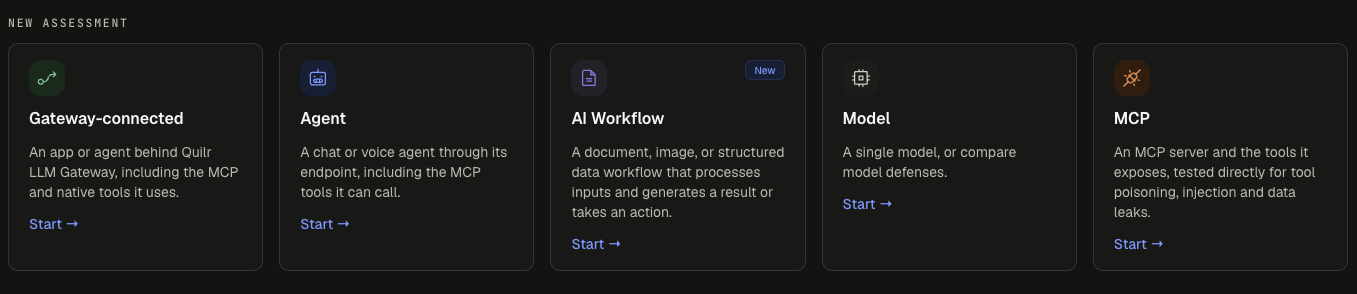
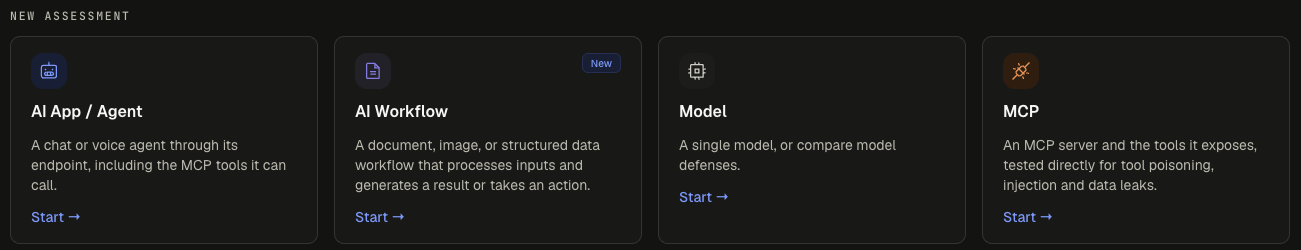
Red Teaming: merge Gateway-connected into AI App / Agent, update mode screenshots

diff --git a/src/data/products.js b/src/data/products.js
@@ -98,15 +98,14 @@ export const products = [
     icon: 'Target',
     sub: 'Attack your own AI before others do',
     tagline:
-      'Test gateway apps, agents, AI workflows and models against real attack techniques, then fix what breaks.',
+      'Test AI apps, agents, AI workflows and models against real attack techniques, then fix what breaks.',
     shot: '/img/products/red-teaming.jpg',
     shotCaption: 'Console › Assessments › Red Teaming',
     primary: {label: 'Get started', to: '/red-teaming/get-started/overview'},
     consolePath: 'Assessments > Red Teaming',
     tasks: [
-      {title: 'Red team a gateway app', desc: 'Test an app or agent already behind the Quilr LLM Gateway', to: '/red-teaming/configure-and-run/gateway-connected'},
       {title: 'Red team an AI workflow', desc: 'Hide attacks in documents, images or data records', to: '/red-teaming/configure-and-run/ai-workflow'},
-      {title: 'Red team an agent', desc: 'Attack any HTTP, WebSocket, or voice agent endpoint', to: '/red-teaming/configure-and-run/agent'},
+      {title: 'Red team an AI app or agent', desc: 'Attack any HTTP, WebSocket, or voice endpoint', to: '/red-teaming/configure-and-run/agent'},
       {title: 'Compare models', desc: 'Run the same attacks on 2 to 8 models', to: '/red-teaming/configure-and-run/model'},
     ],
   },

diff --git a/src/pages/index.js b/src/pages/index.js
@@ -130,7 +130,7 @@ function PlatformMap() {
             <ProductIcon product={red} size={18} />
             <span>{red.name}</span>
           </div>
-          <p>Attacks your gateway apps, agents, models and MCP servers on demand or on a schedule, and turns what it finds into detections.</p>
+          <p>Attacks your AI apps, agents, AI workflows, models and MCP servers on demand or on a schedule, and turns what it finds into detections.</p>
         </Link>
       </div>
       <div className="qd-flowlabel" aria-hidden="true">

diff --git a/docs/red-teaming/get-started/overview.md b/docs/red-teaming/get-started/overview.md
@@ -13,30 +13,24 @@ Quilr Red Teaming is the adversarial testing component of the QuilrAI platform. 
 
 Most security teams test AI applications once before launch, using a fixed list of prompts. Models, system prompts, retrieval sources, and connected tools keep changing after launch, so a one-time test goes stale quickly. Quilr Red Teaming treats testing as a continuous control. Each assessment generates fresh attacks for the current state of the target, and a schedule can repeat it as the target changes.
 
-You can red team five kinds of AI systems: applications and agents already behind the Quilr LLM Gateway, chat and voice agents that run outside it, AI workflows that process documents, images, or data, foundation models straight from the provider, and MCP servers.
+You can red team four kinds of AI systems: AI apps and chat or voice agents, whether or not they sit behind the Quilr LLM Gateway; AI workflows that process documents, images, or data; foundation models straight from the provider; and MCP servers.
 
 ## What you can red team
 
 When you start a new test, you first choose the type of system to attack. The type decides how the Red Team Agent connects, which attacks apply, and what the evaluation inspects.
 
-![The New test page in the QuilrAI console, showing five target type cards: Gateway-connected, Agent, AI Workflow, Model, and MCP, each with a Start link.](/img/red-teaming/new-assessment-modes.png)
+![The New assessment page with four mode cards: AI App / Agent, AI Workflow (marked New), Model, and MCP, each with a Start link.](/img/red-teaming/new-assessment-modes.png)
 
-*Figure 1. Supported red-teaming modes: Gateway-connected, Agent, AI Workflow, Model, and MCP.*
+*Figure 1. Supported red-teaming modes: AI App / Agent, AI Workflow, Model, and MCP.*
 
-### Gateway-connected
+### AI App / Agent
 
-An application or agent that already sends its traffic through the Quilr LLM Gateway. Because the gateway sees every request, Red Teaming discovers the model routes, MCP servers, and native tools the system uses, so you do not need to configure a separate connection.
-
-Gateway-connected tests get the deepest coverage. It is also the simplest to set up: attacks travel through the gateway with the application's own key and policies, so you do not configure an endpoint or credentials.
-
-### Agent
-
-A chat or voice agent that runs outside the Quilr gateway and is reached through its own endpoint. Use this type for agents hosted on another platform, built by a vendor, or not yet onboarded to QuilrAI.
+An AI application, or a chat or voice agent, reached through its own endpoint. It can sit behind the Quilr LLM Gateway, behind another vendor's gateway, or behind no gateway at all. Use this type for apps and agents you build, host on another platform, or buy from a vendor.
 
 - **Chat agents** are tested over their text endpoint, single-turn or multi-turn.
 - **Voice agents** are tested over their voice endpoint. The Red Team Agent speaks its attacks as audio, transcribes the replies, and tests voice-specific techniques such as instructions hidden in background audio and caller impersonation.
 
-If you list the MCP tools the agent can call, the Red Team Agent also tries to make the agent misuse them.
+If you list the MCP tools the app or agent can call, the Red Team Agent also tries to make it misuse them.
 
 ### AI Workflow
 
@@ -66,13 +60,12 @@ MCP server testing is in Red Teaming for now. It will move to Quilr Code Advisor
 
 | Type | Connects through | Main risks tested | Typical use |
 | --- | --- | --- | --- |
-| Gateway-connected | Quilr LLM Gateway | Prompt injection, data leakage, tool abuse, privilege escalation | Apps and agents already onboarded to QuilrAI |
-| Agent | The agent's chat or voice endpoint | Prompt injection, jailbreak, data leakage, tool misuse | Agents hosted elsewhere or built by vendors |
+| AI App / Agent | The app's or agent's own endpoint, directly or through a gateway | Prompt injection, jailbreak, data leakage, tool misuse | AI apps and agents, wherever they are hosted |
 | AI Workflow | The workflow's input API or upload | Indirect injection in files, manipulated decisions, data leakage | Document, image, and data pipelines |
 | Model | The model provider's API | Jailbreak, harmful content, system prompt leakage | Model selection and new version baselines |
 | MCP | The MCP server endpoint | Tool poisoning, injection, authorization gaps, data leaks | Vetting and publishing MCP servers |
 
-Each mode has its own step-by-step guide under [Configure and run](../configure-and-run/gateway-connected.md).
+Each mode has its own step-by-step guide under [Configure and run](../configure-and-run/agent.md).
 
 ## Features of Quilr Red Teaming
 
@@ -117,4 +110,4 @@ After you fix a finding, Red Teaming retests the target to verify the fix. Sched
 
 - Read [How Quilr Red Teaming works](./how-it-works.md) for the architecture.
 - Check [Requirements and permissions](./requirements.md).
-- Pick a mode under [Configure and run](../configure-and-run/gateway-connected.md) and follow its step-by-step guide.
+- Pick a mode under [Configure and run](../configure-and-run/agent.md) and follow its step-by-step guide.

diff --git a/docs/red-teaming/get-started/how-it-works.md b/docs/red-teaming/get-started/how-it-works.md
@@ -18,24 +18,22 @@ flowchart LR
   RTA["Red Team Agent<br/>studies the target, plans attacks,<br/>adapts every turn"]
   GW["Quilr LLM Gateway"]
   DC["Direct connection<br/>endpoint, API, or upload"]
-  T1["Gateway-connected app or agent"]
-  T2["Agent: chat or voice"]
+  T2["AI app or agent: chat or voice"]
   T3["AI Workflow"]
   T4["Model"]
   EV["Evaluators<br/>detectors and model judge"]
   F["Findings"]
   RTA <-->|"attack / reply"| GW
   RTA <-->|"attack / reply"| DC
-  GW <--> T1
   GW <--> T2
   GW <--> T3
   DC <--> T2
   DC <--> T3
   DC <--> T4
-  T1 & T2 & T3 & T4 -->|"replies, tool calls, actions"| EV
+  T2 & T3 & T4 -->|"replies, tool calls, actions"| EV
   EV -.->|"verdict shapes the next attack"| RTA
   EV -->|"confirmed"| F
-  linkStyle 0,2,3,4 stroke:#3b66d6,stroke-width:2px
+  linkStyle 0,2,3 stroke:#3b66d6,stroke-width:2px
 ```
 
 *Figure 1. Targets are reached through the Quilr LLM Gateway (blue) or directly (grey). Every reply and verdict shapes the next attack.*
@@ -44,7 +42,7 @@ flowchart LR
 
 Every assessment moves through the same stages, in order.
 
-1. **Connect.** You choose the mode and tell Quilr how to reach the target. See the guides under [Configure and run](../configure-and-run/gateway-connected.md).
+1. **Connect.** You choose the mode and tell Quilr how to reach the target. See the guides under [Configure and run](../configure-and-run/agent.md).
 2. **Choose coverage.** You pick a Quick scan, the Full library, or a custom selection, and add any custom objectives.
 3. **Launch.** You record the authorized scope and confirm the authorization.
 4. **Study the target.** Quilr first sends harmless requests to learn what the target does, then generates objectives aimed at its own tools. These appear as **Synthesized** in reports.
@@ -57,7 +55,7 @@ Every assessment moves through the same stages, in order.
 
 | Mode | How attacks reach the target | Used by |
 | --- | --- | --- |
-| Through the gateway | Through the Quilr LLM Gateway, using the application's own key and policies. | Gateway-connected apps and agents, and agents or AI workflows that sit behind the gateway. |
-| Direct | Straight to the target's own endpoint: an HTTP or WebSocket API, a voice endpoint, a document upload endpoint, or a model provider's API. | Agents, AI workflows, and models. |
+| Through the gateway | Through the Quilr LLM Gateway, using the application's own key and policies. | AI apps, agents, and AI workflows that sit behind the gateway. |
+| Direct | Straight to the target's own endpoint: an HTTP or WebSocket API, a voice endpoint, a document upload endpoint, or a model provider's API. | AI apps and agents, AI workflows, and models. |
 
 You can leave the page while an assessment runs. Full turn-by-turn transcripts are shown only in the live run view; completed reports show turn-referenced evidence instead.

diff --git a/docs/red-teaming/configure-and-run/agent.md b/docs/red-teaming/configure-and-run/agent.md
@@ -1,19 +1,19 @@
 ---
-sidebar_position: 2
-sidebar_label: "Agent"
+sidebar_position: 1
+sidebar_label: "AI app / agent"
 sidebar_custom_props:
   icon: Bot
-description: "Red team a text or voice agent through its own HTTP, WebSocket, or voice endpoint."
-aliases: [agent, chat agent, voice agent, websocket, http endpoint]
+description: "Red team an AI app or a text or voice agent through its own HTTP, WebSocket, or voice endpoint."
+aliases: [ai app, agent, chat agent, voice agent, websocket, http endpoint]
 ---
 
-# Red team an agent
+# Red team an AI app or agent
 
-Test a text or voice agent through its own endpoint, including the MCP tools it can call.
+Test an AI application, or a text or voice agent, through its own endpoint, including the MCP tools it can call.
 
 ## When to use this mode
 
-Use this mode to test an agent by connecting to its endpoint directly. It works whether the agent is:
+Use this mode to test an AI app or agent by connecting to its endpoint directly. It works whether the app or agent is:
 
 - protected behind the Quilr LLM Gateway,
 - protected behind another vendor's gateway, or
@@ -29,11 +29,11 @@ It supports both **text agents**, reached over HTTP or WebSocket, and **voice ag
 
 ## Start an agent assessment
 
-On the **New assessment** page, select **Start** on the **Agent** card.
+On the **New assessment** page, select **Start** on the **AI App / Agent** card.
 
-![The New assessment page with five mode cards. The Agent card is highlighted.](/img/red-teaming/agent/1-select-mode.png)
+![The New assessment page with four mode cards: AI App / Agent, AI Workflow (marked New), Model, and MCP, each with a Start link.](/img/red-teaming/new-assessment-modes.png)
 
-*Figure 1. Select **Agent** on the New assessment page.*
+*Figure 1. Select **AI App / Agent** on the New assessment page.*
 
 The **New agent assessment** setup opens. It has five steps: **Target**, **Coverage**, **Custom Attacks**, **Schedule**, and **Review**.
 
@@ -88,7 +88,7 @@ Choose the settings that match how your agent works. The development team can co
 
 ### Add context (optional)
 
-As with gateway-connected apps, you can add the agent's system prompt and the tools it can call: MCP Gateway servers, other MCP servers, and native tools. These are optional but recommended. The more context you give, the more the attacks are curated to your agent, and a tool list lets the Red Team Agent try to make the agent misuse those tools.
+You can add the agent's system prompt and the tools it can call: MCP Gateway servers, other MCP servers, and native tools. These are optional but recommended. The more context you give, the more the attacks are curated to your agent, and a tool list lets the Red Team Agent try to make the agent misuse those tools.
 
 Select **Continue**.
 

diff --git a/docs/red-teaming/configure-and-run/examples.md b/docs/red-teaming/configure-and-run/examples.md
@@ -1,5 +1,5 @@
 ---
-sidebar_position: 5
+sidebar_position: 4
 sidebar_label: "Examples"
 sidebar_custom_props:
   icon: Sparkles
@@ -20,7 +20,7 @@ Quilr attacks the target as it is described to it. Two optional inputs, both on 
 | System prompt | The instructions, persona, and rules your application uses today. This is the boundary that extraction and override attacks try to break. |
 | Tools | The functions your application can call. They give the Red Team Agent something to misuse, leak, or trick the target into calling with harmful arguments. |
 
-You can add both in every mode: on the Target step for [gateway-connected apps](./gateway-connected.md) and [agents](./agent.md), and under **System prompt & tools** for [models](./model.md). Tools are written as a JSON array in OpenAI function format.
+You can add both in every mode: on the Target step for [AI apps and agents](./agent.md), and under **System prompt & tools** for [models](./model.md). Tools are written as a JSON array in OpenAI function format.
 
 ## What makes a good system prompt and tool list
 

diff --git a/docs/llm-gateway/get-started/architecture.md b/docs/llm-gateway/get-started/architecture.md
@@ -88,4 +88,4 @@ Copilot Studio is different from LLM proxy routes: Copilot calls QuilrAI before 
 
 ## Observability
 
-Every request is logged with cost, latency, token counts, and guardrail actions. Use the app card's **Logs** button (the **Activity** tab) to review request history, the [LLM Gateway Log Export API](../api-reference/log-export-api) to export logs programmatically, and a gateway-connected assessment in **Assessments > Red Teaming** to [validate your guardrail configuration](../../red-teaming/configure-and-run/gateway-connected) against adversarial prompts.
+Every request is logged with cost, latency, token counts, and guardrail actions. Use the app card's **Logs** button (the **Activity** tab) to review request history, the [LLM Gateway Log Export API](../api-reference/log-export-api) to export logs programmatically, and a red teaming assessment in **Assessments > Red Teaming** to [validate your guardrail configuration](../../red-teaming/configure-and-run/agent) against adversarial prompts.

diff --git a/docs/red-teaming/reference/risk-grade-and-severity.md b/docs/red-teaming/reference/risk-grade-and-severity.md
@@ -131,7 +131,7 @@ The floor can make the grade much worse than the score alone suggests, so read t
 
 ## Reproduction
 
-When an attack breaches the target, Quilr replays the winning attack to check that it works again. The finding is **Reproduced** when most replays breach again. Live agents, AI workflows, gateway-connected apps, and models reached through an OpenAI-compatible endpoint are replayed only when the target is marked replay-safe; otherwise the finding says **Not attempted**.
+When an attack breaches the target, Quilr replays the winning attack to check that it works again. The finding is **Reproduced** when most replays breach again. Live AI apps and agents, AI workflows, and models reached through an OpenAI-compatible endpoint are replayed only when the target is marked replay-safe; otherwise the finding says **Not attempted**.
 
 Reproduction is evidence only. A breach that was not reproduced still counts in full toward the risk score and grade.
 

diff --git a/docs/llm-gateway/self-service/developer-guide.md b/docs/llm-gateway/self-service/developer-guide.md
@@ -164,7 +164,7 @@ Once a request is approved (or saved directly), the change is live on the next r
 2. Open the **Findings** tab to see which guardrails fired and what action was applied - the categories and actions are explained in [Security Guardrails](../protect/security-guardrails).
 3. Open the **Logs** tab for the request itself, including token counts, which show the effect of [Token Saving](../cost-and-traffic/token-saving) and of the model your [routing group](../cost-and-traffic/routing-and-fallbacks) picked.
 
-If your admin runs a [gateway-connected red teaming assessment](../../red-teaming/configure-and-run/gateway-connected) against the app, those results are a broader check on the same guardrail configuration.
+If your admin runs a [red teaming assessment](../../red-teaming/configure-and-run/agent) against the app, those results are a broader check on the same guardrail configuration.
 
 ## Troubleshooting
 

diff --git a/docs/red-teaming/release-notes/changelog.md b/docs/red-teaming/release-notes/changelog.md
@@ -10,6 +10,12 @@ description: "What changed in Red Teaming, newest first."
 
 What changed in Red Teaming, newest first.
 
+## Gateway-connected merged into AI App / Agent (2026-11-08)
+
+- The **New assessment** page now has four cards: **AI App / Agent**, **AI Workflow**, **Model** and **MCP**
+- The **Gateway-connected** card is removed. To test an app or agent behind the Quilr LLM Gateway, use **AI App / Agent**
+- Details: [Red team an AI app or agent](../configure-and-run/agent.md)
+
 ## Back to assessments from a live run (2026-11-03)
 
 - While an assessment is running, **Back to assessments** now returns to the **Assessments** page, where the run stays listed as **Running**, instead of the older runs list

diff --git a/docs/red-teaming/configure-and-run/ai-workflow.md b/docs/red-teaming/configure-and-run/ai-workflow.md
@@ -1,5 +1,5 @@
 ---
-sidebar_position: 3
+sidebar_position: 2
 sidebar_label: "AI workflow"
 sidebar_custom_props:
   icon: FileText
@@ -28,7 +28,7 @@ The workflow can be reached directly, or through the Quilr LLM Gateway if it sit
 
 On the **New assessment** page, select **Start** on the **AI Workflow** card.
 
-![The New assessment page with five mode cards. The AI Workflow card, marked New, is highlighted.](/img/red-teaming/workflow/1-select-mode.png)
+![The New assessment page with four mode cards: AI App / Agent, AI Workflow (marked New), Model, and MCP, each with a Start link.](/img/red-teaming/new-assessment-modes.png)
 
 *Figure 1. Select **AI Workflow** on the New assessment page.*
 

diff --git a/docs/red-teaming/results-and-reports/assessments-overview.md b/docs/red-teaming/results-and-reports/assessments-overview.md
@@ -15,7 +15,7 @@ The Red Teaming landing page shows how your AI systems are holding up across eve
 
 *Figure 1. The Red Teaming landing page.*
 
-The page has three parts, from top to bottom: the summary cards, the **New assessment** cards for starting a test, and the **Recent runs** table. To start a new assessment, see the guides under [Configure and run](../configure-and-run/gateway-connected.md).
+The page has three parts, from top to bottom: the summary cards, the **New assessment** cards for starting a test, and the **Recent runs** table. To start a new assessment, see the guides under [Configure and run](../configure-and-run/agent.md).
 
 ## Navigate Red Teaming
 
